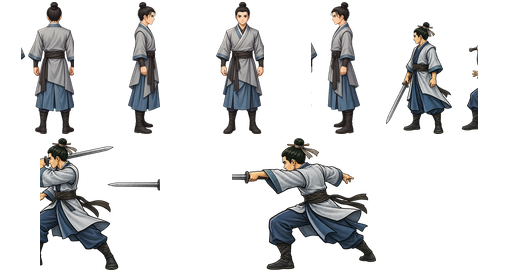
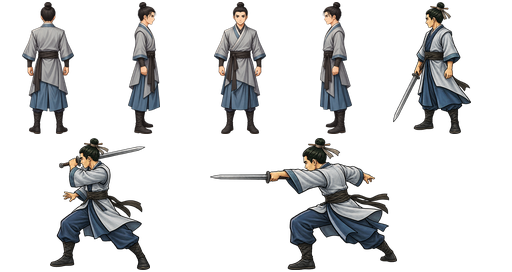
fix: preserve complete hero silhouettes and fit coordinate review viewport

diff --git a/tool/fmj_review_template.html b/tool/fmj_review_template.html
@@ -1,5 +1,5 @@
 <!doctype html><html lang="zh-CN"><head><meta charset="utf-8"><meta name="viewport" content="width=device-width,initial-scale=1"><title>伏魔记 · 全地图交互审核</title><style>
-:root{color-scheme:dark;--bg:#0d191e;--panel:#172a30;--line:#34545a;--gold:#e0c58b;--text:#e3e9df;--muted:#a1bcb9}*{box-sizing:border-box}body{margin:0;background:var(--bg);color:var(--text);font:15px/1.6 -apple-system,BlinkMacSystemFont,"PingFang SC",sans-serif}button,input,select,textarea{font:inherit;color:inherit}button,select{background:#264249;border:1px solid #527276;border-radius:7px;padding:7px 12px;cursor:pointer}button.primary{background:var(--gold);color:#14272c;border:0}input,textarea{background:#102126;border:1px solid #4d6d72;border-radius:6px;padding:9px}textarea{width:100%;resize:vertical;min-height:75px}label{color:var(--gold);display:block}a{color:#9ddbd2}header{padding:18px 24px;border-bottom:1px solid var(--line);display:flex;align-items:center;gap:20px;flex-wrap:wrap}h1{font-size:23px;color:var(--gold);margin:0}h2{font-size:20px;margin:0 0 4px;color:var(--gold)}p{margin:6px 0}.muted{color:var(--muted);font-size:13px}.layout{display:grid;grid-template-columns:245px minmax(300px,1fr) 285px;height:calc(100vh - 127px)}aside{padding:14px;overflow:auto;background:var(--panel)}nav{margin-top:10px}nav button{width:100%;text-align:left;margin-bottom:6px;background:transparent;padding:9px;border-color:#355157}nav button.selected{background:#355c5c;border-color:var(--gold)}nav button .small{display:block;font-size:12px;color:var(--muted)}.filters{display:grid;gap:7px}.filters input,.filters select{width:100%}.workspace{min-width:0;display:flex;flex-direction:column;padding:16px;gap:9px}.toolbar{display:flex;gap:6px;flex-wrap:wrap;align-items:center}.toolbar button{padding:5px 9px}.viewport{flex:1;min-height:200px;overflow:auto;background:repeating-conic-gradient(#152c30 0 25%,#1b3539 0 50%) 0/22px 22px;border:1px solid var(--line);position:relative;overscroll-behavior:contain}.stage{position:relative;cursor:crosshair;margin:0;user-select:none}.stage img{display:block;width:100%;height:100%;pointer-events:none}.stage svg{position:absolute;inset:0;width:100%;height:100%;pointer-events:none}.status{display:flex;gap:8px;align-items:center;flex-wrap:wrap}.status select{min-width:125px}#coords{font-variant-numeric:tabular-nums;color:#e6d4ac;min-height:24px}#loupe{display:block;width:180px;height:180px;border:1px solid #5e8183;border-radius:8px;margin:10px auto;background:#102126}#markerList{margin-top:12px}.marker{border:1px solid #38595d;border-radius:7px;padding:9px;margin-bottom:8px;cursor:pointer}.marker.active{border-color:var(--gold);background:#263f42}.marker strong{color:var(--gold)}.marker button{float:right;padding:1px 7px}.note{padding:8px 12px;background:#20383b;border-left:3px solid #bba576;margin-bottom:10px}.topActions{display:flex;gap:8px;align-items:center;flex-wrap:wrap}#progress{color:var(--muted);font-size:13px}.hidden{display:none!important}.foot{padding:8px 18px;border-top:1px solid var(--line);font-size:12px;color:var(--muted)}#error{color:#ffbaaa}.fileButton{display:inline-block}#import{display:none}dialog{max-width:680px;background:var(--panel);color:var(--text);border:1px solid var(--line);border-radius:12px}dialog::backdrop{background:#0009}.toast{color:#d3d6ae;min-height:20px;font-size:13px}.help{font-size:13px;color:var(--muted);padding:0 24px 10px}.gridHint{font-size:12px;color:#acc5bf}#pointEditor{padding:12px;background:#213c40;border:1px solid #567576;border-radius:8px;margin-top:12px}#zoomValue{min-width:48px;text-align:center}@media(max-width:1000px){.layout{grid-template-columns:200px minmax(280px,1fr)}.reviewPanel{grid-column:1/-1;max-height:400px;border-top:1px solid var(--line)}.layout{height:auto}.workspace{height:75vh}aside.mapList{max-height:75vh}}@media(max-width:600px){header{padding:12px;gap:10px}h1{font-size:21px}.layout{display:block}.mapList{max-height:210px!important}.workspace{height:70vh;padding:10px}.reviewPanel{max-height:none}.help{padding:0 12px 8px}#loupe{width:150px;height:150px}.filters{grid-template-columns:1fr 1fr}nav{display:flex;overflow:auto;gap:8px}nav button{min-width:140px}.status{font-size:13px}}
+:root{color-scheme:dark;--bg:#0d191e;--panel:#172a30;--line:#34545a;--gold:#e0c58b;--text:#e3e9df;--muted:#a1bcb9}*{box-sizing:border-box}body{margin:0;background:var(--bg);color:var(--text);font:15px/1.6 -apple-system,BlinkMacSystemFont,"PingFang SC",sans-serif}button,input,select,textarea{font:inherit;color:inherit}button,select{background:#264249;border:1px solid #527276;border-radius:7px;padding:7px 12px;cursor:pointer}button.primary{background:var(--gold);color:#14272c;border:0}input,textarea{background:#102126;border:1px solid #4d6d72;border-radius:6px;padding:9px}textarea{width:100%;resize:vertical;min-height:75px}label{color:var(--gold);display:block}a{color:#9ddbd2}header{padding:18px 24px;border-bottom:1px solid var(--line);display:flex;align-items:center;gap:20px;flex-wrap:wrap}h1{font-size:23px;color:var(--gold);margin:0}h2{font-size:20px;margin:0 0 4px;color:var(--gold)}p{margin:6px 0}.muted{color:var(--muted);font-size:13px}.layout{display:grid;grid-template-columns:245px minmax(300px,1fr) 285px;height:calc(100vh - 160px);grid-template-rows:minmax(0,1fr);min-height:0}aside{padding:14px;overflow:auto;background:var(--panel)}nav{margin-top:10px}nav button{width:100%;text-align:left;margin-bottom:6px;background:transparent;padding:9px;border-color:#355157}nav button.selected{background:#355c5c;border-color:var(--gold)}nav button .small{display:block;font-size:12px;color:var(--muted)}.filters{display:grid;gap:7px}.filters input,.filters select{width:100%}.workspace{min-height:0;min-width:0;display:flex;flex-direction:column;padding:16px;gap:9px}.toolbar{display:flex;gap:6px;flex-wrap:wrap;align-items:center}.toolbar button{padding:5px 9px}.viewport{flex:1;min-height:200px;overflow:auto;background:repeating-conic-gradient(#152c30 0 25%,#1b3539 0 50%) 0/22px 22px;border:1px solid var(--line);position:relative;overscroll-behavior:contain}.stage{position:relative;cursor:crosshair;margin:0;user-select:none}.stage img{display:block;width:100%;height:100%;pointer-events:none}.stage svg{position:absolute;inset:0;width:100%;height:100%;pointer-events:none}.status{display:flex;gap:8px;align-items:center;flex-wrap:wrap}.status select{min-width:125px}#coords{font-variant-numeric:tabular-nums;color:#e6d4ac;min-height:24px}#loupe{display:block;width:180px;height:180px;border:1px solid #5e8183;border-radius:8px;margin:10px auto;background:#102126}#markerList{margin-top:12px}.marker{border:1px solid #38595d;border-radius:7px;padding:9px;margin-bottom:8px;cursor:pointer}.marker.active{border-color:var(--gold);background:#263f42}.marker strong{color:var(--gold)}.marker button{float:right;padding:1px 7px}.note{padding:8px 12px;background:#20383b;border-left:3px solid #bba576;margin-bottom:10px}.topActions{display:flex;gap:8px;align-items:center;flex-wrap:wrap}#progress{color:var(--muted);font-size:13px}.hidden{display:none!important}.foot{padding:8px 18px;border-top:1px solid var(--line);font-size:12px;color:var(--muted)}#error{color:#ffbaaa}.fileButton{display:inline-block}#import{display:none}dialog{max-width:680px;background:var(--panel);color:var(--text);border:1px solid var(--line);border-radius:12px}dialog::backdrop{background:#0009}.toast{color:#d3d6ae;min-height:20px;font-size:13px}.help{font-size:13px;color:var(--muted);padding:0 24px 10px}.gridHint{font-size:12px;color:#acc5bf}#pointEditor{padding:12px;background:#213c40;border:1px solid #567576;border-radius:8px;margin-top:12px}#zoomValue{min-width:48px;text-align:center}@media(max-width:1000px){.layout{grid-template-columns:200px minmax(280px,1fr)}.reviewPanel{grid-column:1/-1;max-height:400px;border-top:1px solid var(--line)}.layout{height:auto}.workspace{height:75vh}aside.mapList{max-height:75vh}}@media(max-width:600px){header{padding:12px;gap:10px}h1{font-size:21px}.layout{display:block}.mapList{max-height:210px!important}.workspace{height:70vh;padding:10px}.reviewPanel{max-height:none}.help{padding:0 12px 8px}#loupe{width:150px;height:150px}.filters{grid-template-columns:1fr 1fr}nav{display:flex;overflow:auto;gap:8px}nav button{min-width:140px}.status{font-size:13px}}
 </style></head><body><header><div><h1>伏魔记 · 全地图交互审核</h1><div class="muted" id="revision"></div></div><div class="topActions"><button class="primary" id="export">导出审核意见</button><button id="importButton">导入意见</button><input id="import" type="file" accept=".json,application/json"><button id="help">使用说明</button><span id="progress"></span></div></header><div class="help">点击图片标出问题 → 填写该点意见。支持放大、网格、悬停放大镜；地图格坐标从左上角 (0,0) 开始，另附原图像素坐标。</div><div class="layout"><aside class="mapList"><div class="filters"><input id="search" placeholder="搜索地点、地图ID、材质"><select id="kind"><option value="">全部场景</option><option>道路/室外</option><option>室内/洞府</option><option>地表材质</option><option>人物/动效</option><option value="roads">只看道路</option><option value="needs">待修改</option><option value="unreviewed">未审核</option></select></div><nav id="list" aria-label="场景列表"></nav></aside><main class="workspace"><div><h2 id="title"></h2><div id="meta" class="muted"></div></div><div class="toolbar"><button id="previous">上一项</button><button id="next">下一项</button><button id="fit">适合窗口</button><button id="minus">−</button><span id="zoomValue"></span><button id="plus">＋</button><button id="actual">原图100%</button><button id="grid" aria-pressed="false">显示网格</button><button id="nextPending">下一未审核</button></div><div id="coords" aria-live="polite">移动鼠标查看位置，点击添加审核点</div><div class="viewport" id="viewport"><div class="stage" id="stage"><img id="scene" alt="当前场景"><svg id="overlay" xmlns="http://www.w3.org/2000/svg" aria-hidden="true"></svg></div></div><div class="toast" id="saved"></div></main><aside class="reviewPanel"><div class="status"><label>整项审核<select id="status"><option>未审核</option><option>通过</option><option>需要调整</option></select></label><span id="pointCount"></span></div><label>整体意见<textarea id="general" placeholder="本场景的整体意见；局部问题建议在图上标点"></textarea></label><canvas id="loupe" width="360" height="360" aria-label="鼠标位置放大镜"></canvas><div id="pointEditor" class="hidden"><strong id="pointTitle"></strong><div class="muted" id="pointMeta"></div><label>此处审核意见<textarea id="pointNote" placeholder="例如：门的朝向不对、石头颜色不对、椅子需要挨近"></textarea></label></div><div id="markerList"></div></aside></div><div class="foot">页面完全离线，无需登录。意见自动保存在当前浏览器；审核完成请导出JSON。全部地图来自当前正式Flutter绘制器，动态人物以导出时的原场景状态显示。</div><dialog id="helpDialog"><h2>如何反馈坐标</h2><p>1. 左侧选择地点，或搜索“客栈”“李府”等名称。</p><p>2. 点击图片添加编号点；右侧填写该点的审核意见。可以在同一张图标多个点。</p><p>3. “适合窗口”看全景，“原图100%”或＋看细节。网格是原地图的一格；悬停放大镜便于看纹理。</p><p>4. 点“通过”或“需要调整”，再检查下一项。最后导出JSON即可，我能读出地图ID、格坐标、像素坐标和对应意见。</p><p>相同地图可能被不同剧情复用，本页面不代表每个剧情阶段的NPC都同时出现。材质和人物原画没有地图格坐标，只记录图像像素。</p><button id="closeHelp">知道了</button></dialog><script>
 /*__REVIEW_DATA__*/
 const $=id=>document.getElementById(id),entries=DATA.entries,storageKey='fmj-coordinate-review-20261029';let opinions={},current=entries[0],zoom=1,grid=false,selectedPoint=null,hover=null,loaded=false;const empty=()=>({status:'未审核',comment:'',markers:[]});

diff --git a/tool/fmj_hero_v10.py b/tool/fmj_hero_v10.py
@@ -1,11 +1,32 @@
 """柳清风成年比例：保留角色身份、空手地图四向和持剑战斗动作的原资源键。"""
 from pathlib import Path
 import json
-from PIL import Image,ImageOps
+from PIL import Image,ImageOps,ImageDraw
+import numpy as np
 
 ROOT=Path(__file__).resolve().parents[1]
 ART=ROOT/'assets/fmj/modern';SOURCES=ROOT/'tool/art_sources/hero-v10'
 R=Image.Resampling.LANCZOS
+
+
+def figures(sheet, count):
+    """按透明轮廓切出完整人物，不能用等宽列裁切越过列边界的袖子或剑尖。"""
+    alpha=np.array(sheet.getchannel('A'))
+    mask=Image.fromarray(np.where(alpha>48,255,0).astype('uint8')).copy()
+    result=[]
+    while True:
+        values=np.array(mask);ys,xs=np.where(values==255)
+        if not len(xs):break
+        ImageDraw.floodfill(mask,(int(xs[0]),int(ys[0])),128)
+        component=np.array(mask)==128
+        if int(component.sum())>1200:
+            yy,xx=np.where(component);box=(int(xx.min()),int(yy.min()),int(xx.max()+1),int(yy.max()+1))
+            im=sheet.copy();im.putalpha(Image.fromarray(np.where(component,alpha,0).astype('uint8')))
+            result.append((box[0],im.crop(box)))
+        values=np.array(mask);values[component]=0;mask=Image.fromarray(values).copy()
+    result.sort(key=lambda pair:pair[0])
+    assert len(result)==count,[(x,im.size)for x,im in result]
+    return [im for _,im in result]
 
 
 def fitted(source,w,h):
@@ -20,19 +41,18 @@ def main():
     if filename not in hd['textures']:hd['textures'].append(filename)
     index=hd['textures'].index(filename);page=Image.new('RGBA',(512,272))
     world=Image.open(SOURCES/'hero-world.png').convert('RGBA');battle=Image.open(SOURCES/'hero-battle.png').convert('RGBA')
+    world_figures=figures(world,4);battle_figures=figures(battle,3)
     # 原方向编号1背、2右、3正、4左；统一完整身高，不把小头重新放大到旧大头框内。
     for direction,column in enumerate([1,3,0,2],1):
-        left=round(column*world.width/4);right=round((column+1)*world.width/4)
-        im=fitted(world.crop((left,0,right,world.height)),96,136);x=(direction-1)*96;page.alpha_composite(im,(x,0))
+        im=fitted(world_figures[column],96,136);x=(direction-1)*96;page.alpha_composite(im,(x,0))
         for phase in range(3):
             key=f'world:hero:1:{direction}/{phase}';hd['frames'][key]=[index,x,0,96,136]
             sources['frames'][key]={'source':'tool/art_sources/hero-v10/hero-world.png','direction':direction,'adultProportions':True,'emptyHands':True}
     # 战斗三张同身份原画：站姿、蓄力、横斩，按原12帧动作阶段复用。
-    crops=[(0,0,520,battle.height),(525,0,1040,battle.height),(980,0,battle.width,battle.height)]
     pieces=[(384,0,96,136),(0,136,200,136),(204,136,200,136)]
     frames=[]
-    for box,(x,y,w,h)in zip(crops,pieces):
-        page.alpha_composite(fitted(battle.crop(box),w,h),(x,y));frames.append([index,x,y,w,h])
+    for figure,(x,y,w,h)in zip(battle_figures,pieces):
+        page.alpha_composite(fitted(figure,w,h),(x,y));frames.append([index,x,y,w,h])
     for key in list(hd['frames']):
         if not key.startswith('battle:hero:1/'):continue
         phase=int(key.split('/')[-1]);pose=1 if phase in[1,2] else 2 if phase in[3,4] else 0
